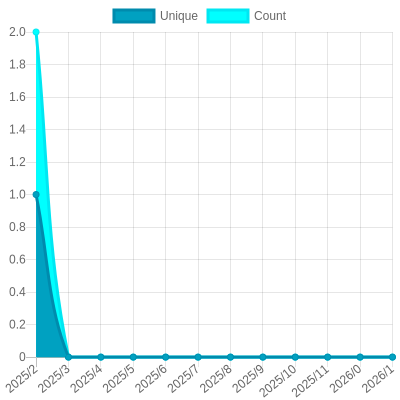
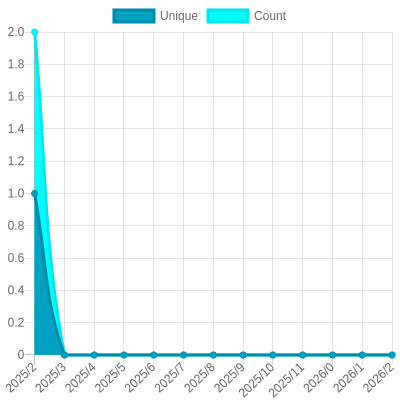
Update views

diff --git a/README.md b/README.md
@@ -26,7 +26,7 @@ The project created and maintained by [gayanvoice](https://github.com/gayanvoice
 			</a>
 		</td>
 		<td>
-			2025/2/27 12:36 AM UTC
+			2025/2/28 12:36 AM UTC
 		</td>
 		<td>
 			10
@@ -37,7 +37,7 @@ The project created and maintained by [gayanvoice](https://github.com/gayanvoice
 	</tr>
 </table>
 
-<small><i>Last updated on 2025/3/1 6:08 PM UTC</i></small>
+<small><i>Last updated on 2025/3/2 12:39 AM UTC</i></small>
 
 ## ✂Copy and 📋 Paste
 ### Total Views Badge

diff --git a/readme/731458581/year.md b/readme/731458581/year.md
@@ -20,6 +20,17 @@
 	</tr>
 	<tr>
 		<td>
+			<code>2025/3/1</code>
+		</td>
+		<td>
+			<code>0</code>
+		</td>
+		<td>
+			<code>0</code>
+		</td>
+	</tr>
+	<tr>
+		<td>
 			<code>2025/2/1</code>
 		</td>
 		<td>
@@ -153,7 +164,7 @@
 </table>
 
 </details>
-<small><i>Last updated on 2025/3/1 6:08 PM UTC</i></small>
+<small><i>Last updated on 2025/3/2 12:39 AM UTC</i></small>
 
 ## ✂Copy and 📋 Paste
 ### SVG Badge
